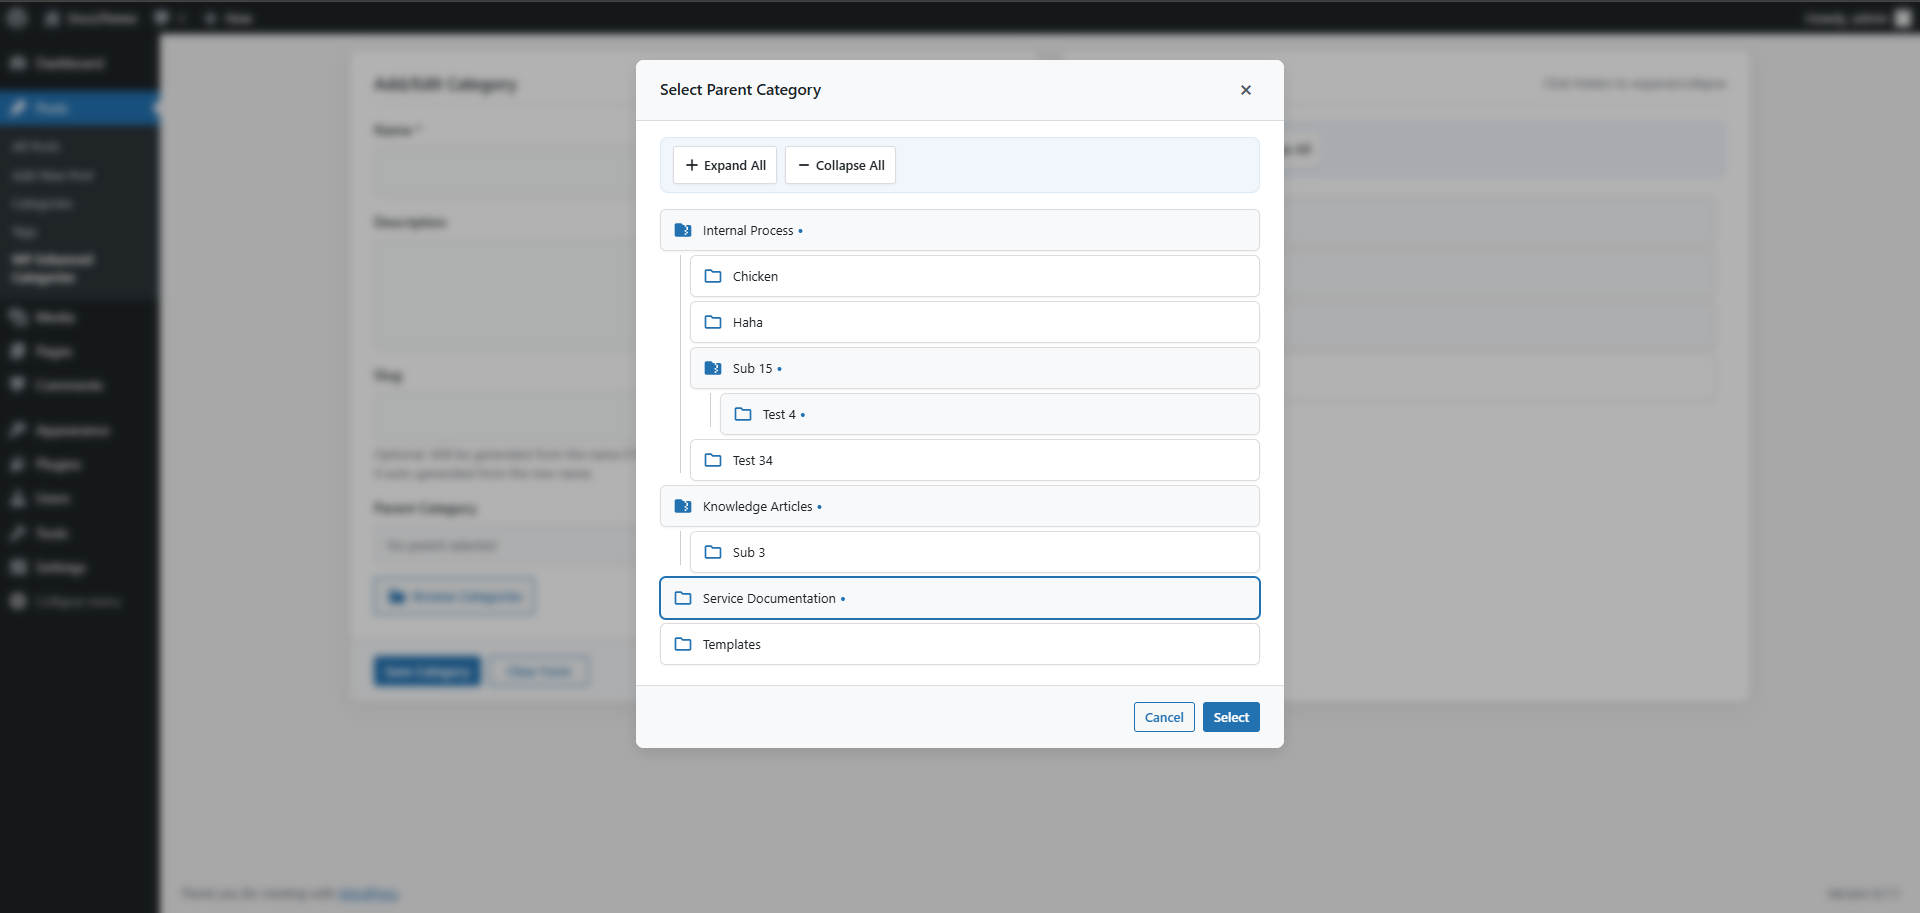
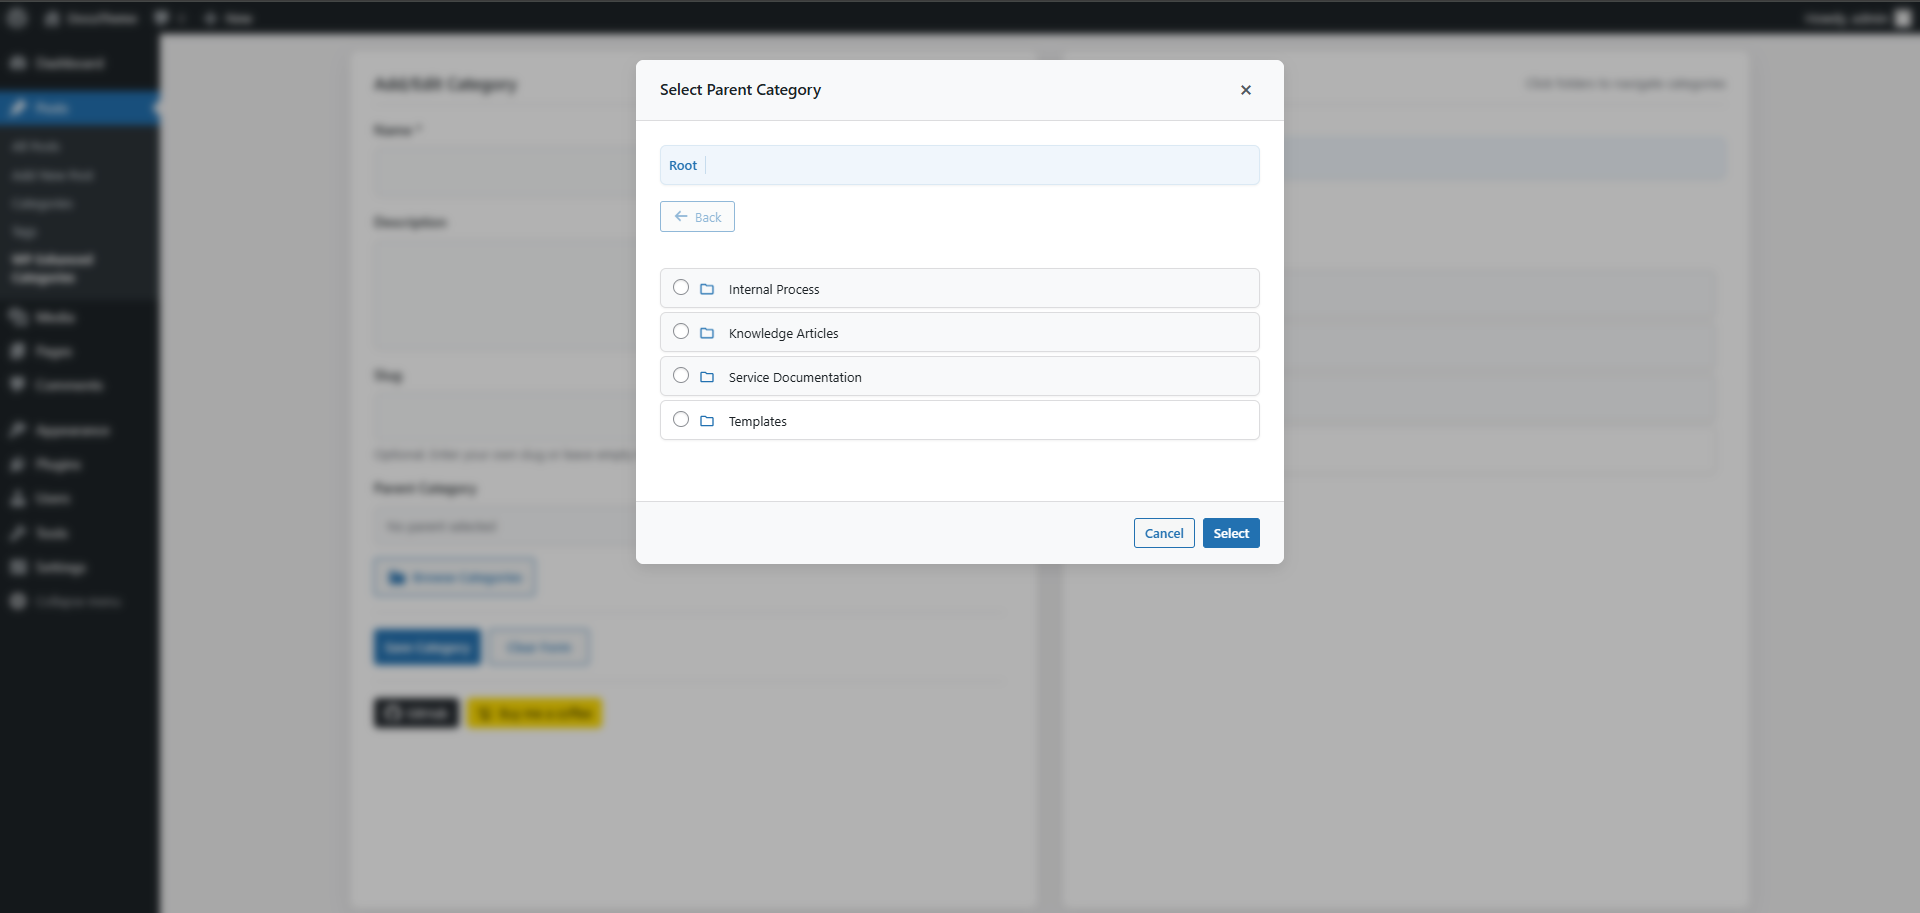
docs: Add screenshots to README.md

diff --git a/README.md b/README.md
@@ -15,6 +15,16 @@ A modern and user-friendly way to manage WordPress categories with an enhanced U
 - Smooth animations and transitions
 - Efficient category management for large hierarchies
 
+## Screenshots
+
+### Main Admin Interface
+![Main Admin Interface](assets/screenshots/main-admin-page.png)
+The main interface showing the category management system with folder-like navigation and breadcrumbs.
+
+### Parent Category Selection
+![Parent Category Selection](assets/screenshots/select-parent-category-dialog.png)
+Modal dialog for selecting parent categories with intuitive navigation and visual hierarchy.
+
 ## Installation
 
 1. Upload the plugin files to the `/wp-content/plugins/wp-enhanced-categories` directory
